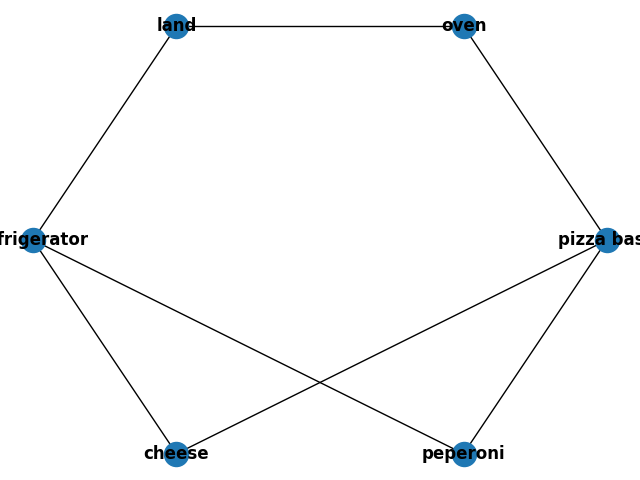
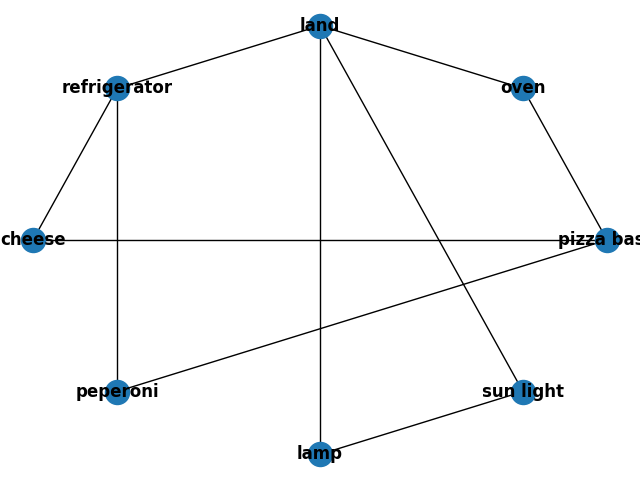
added weighted edge to the graph, but weights are not showing on the graph

diff --git a/capital/good_structure.py b/capital/good_structure.py
@@ -1,5 +1,7 @@
 import networkx as nx
-import pylab as plt
+# %matplotlib inline
+import matplotlib.pyplot as plt
+# from networkx.drawing.nx_agraph import graphviz_layout
 
 
 class GoodStruct:
@@ -10,14 +12,23 @@ class GoodStruct:
     def add_node(self, node):
         self.G.add_node(node)
 
-    def add_edge(self, node1, node2):
+    def add_edge(self, node1, node2, weight=None):
         '''
         add an edge between node1 and node2
         '''
-        self.G.add_edge(node1, node2)
+        self.G.add_edge(node1, node2, weight=weight)
 
     def draw_graph(self):
         nx.draw_shell(self.G, with_labels=True, font_weight='bold')
+
+        # pos = graphviz_layout(self.G)
+        # plt.axis('off')
+        # nx.draw_networkx_nodes(self.G,pos,node_color='g',alpha = 0.8)
+        # nx.draw_networkx_edges(self.G,pos,edge_color='b',alpha = 0.6)
+        # nx.draw_networkx_edge_labels(self.G,pos,edge_labels = \
+        # nx.get_edge_attributes(self.G,'weight'))
+        # nx.draw_networkx_labels(self.G,pos) # node lables
+
         plt.savefig('graph.png')
 
     def __str__(self):
@@ -53,6 +64,12 @@ class GoodStruct:
         '''
         self.G.remove_node(node)
 
+    def get_weight(self, node1, node2):
+        '''
+        get weight of the edge between node1 and node2
+        '''
+        return self.G[node1][node2]['weight']
+
 
 def main():
     goods = GoodStruct()
@@ -62,20 +79,28 @@ def main():
     goods.add_node("refrigerator")
     goods.add_node("cheese")
     goods.add_node("peperoni")
+    goods.add_node("lamp")
+    goods.add_node("sun light")
 
-    goods.add_edge("land", "oven")
-    goods.add_edge("land", "refrigerator")
-    goods.add_edge("cheese", "refrigerator")
-    goods.add_edge("peperoni", "refrigerator")
-    goods.add_edge("pizza base", "oven")
-    goods.add_edge("pizza base", "peperoni")
-    goods.add_edge("pizza base", "cheese")
+    goods.add_edge("land", "oven", weight=4)
+    goods.add_edge("land", "refrigerator", weight=4)
+    goods.add_edge("cheese", "refrigerator", weight=4)
+    goods.add_edge("peperoni", "refrigerator", weight=4)
+    goods.add_edge("pizza base", "oven", weight=4)
+    goods.add_edge("pizza base", "peperoni", weight=2)
+    goods.add_edge("pizza base", "cheese", weight=2)
+    goods.add_edge("land", "lamp", weight=1)
+    goods.add_edge("sun light", "lamp", weight=-4)
+    goods.add_edge("land", "sun light", weight=1)
 
     print("node:", goods.nodes(), "\n")
     print("edges:", goods.edges(), "\n")
     print("number of nodes:", len(goods), "\n")
     print("graph as a string:", goods, "\n")
     print("neighbors of piassa:", goods.neighbors("pizza base"), "\n")
+    print("weight from land to oven:", goods.get_weight('land', 'oven'))
+    print("weight from \'sun light' to \'lamp':",
+          goods.get_weight("sun light", "lamp"))
     goods.draw_graph()
 
 
